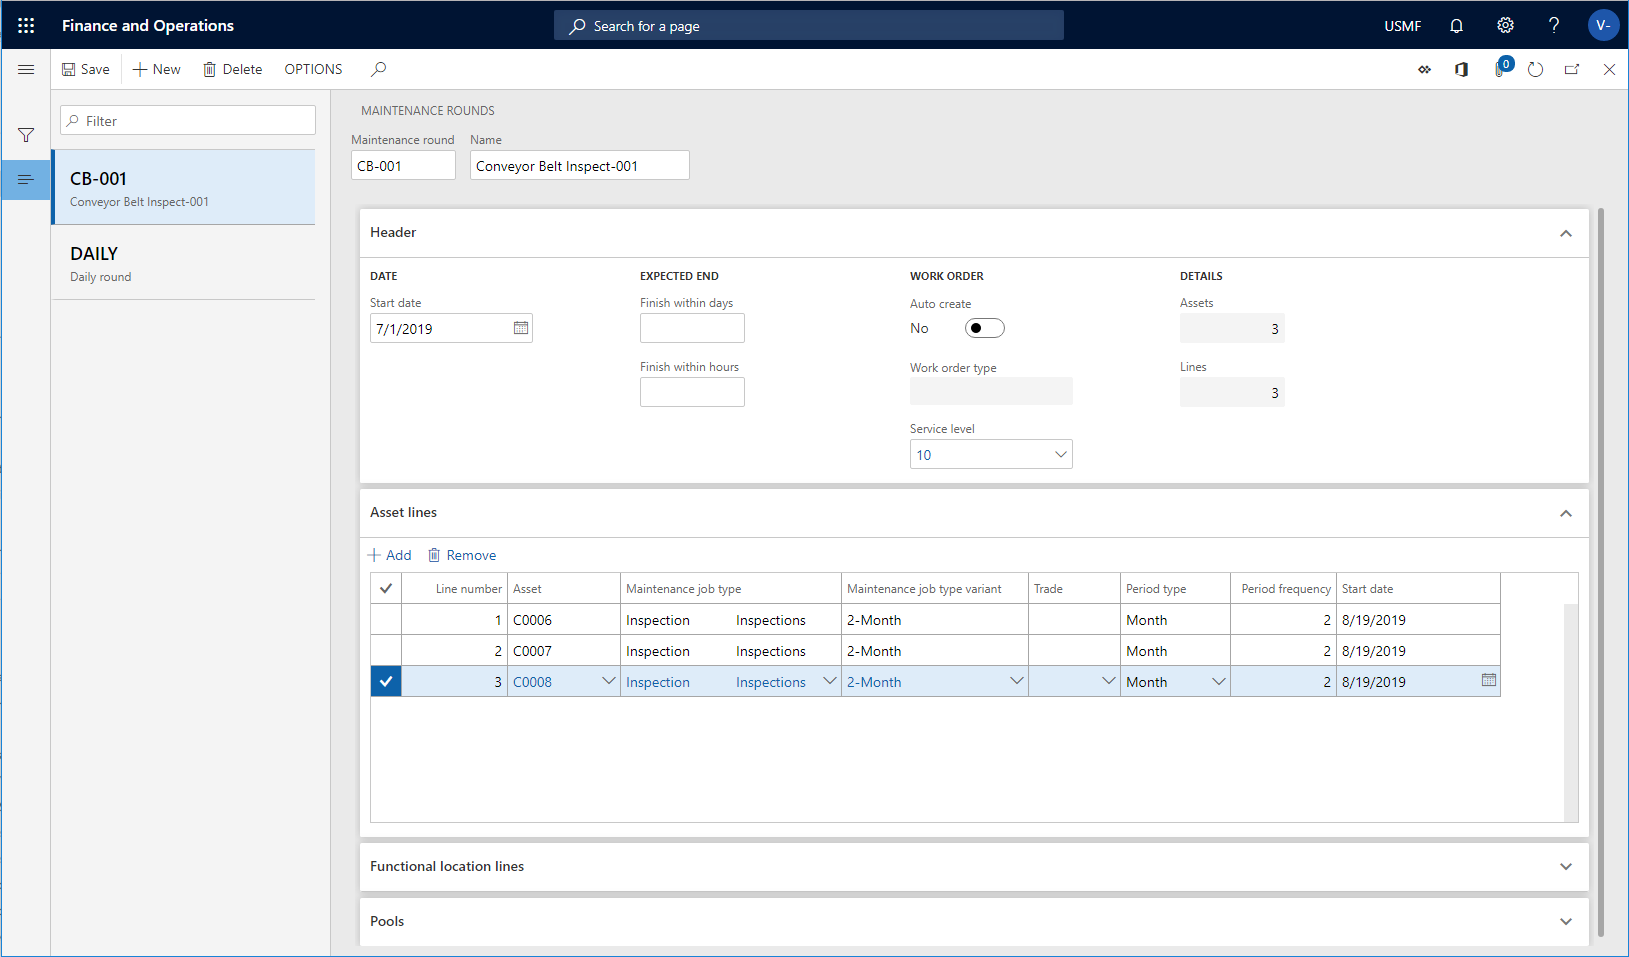
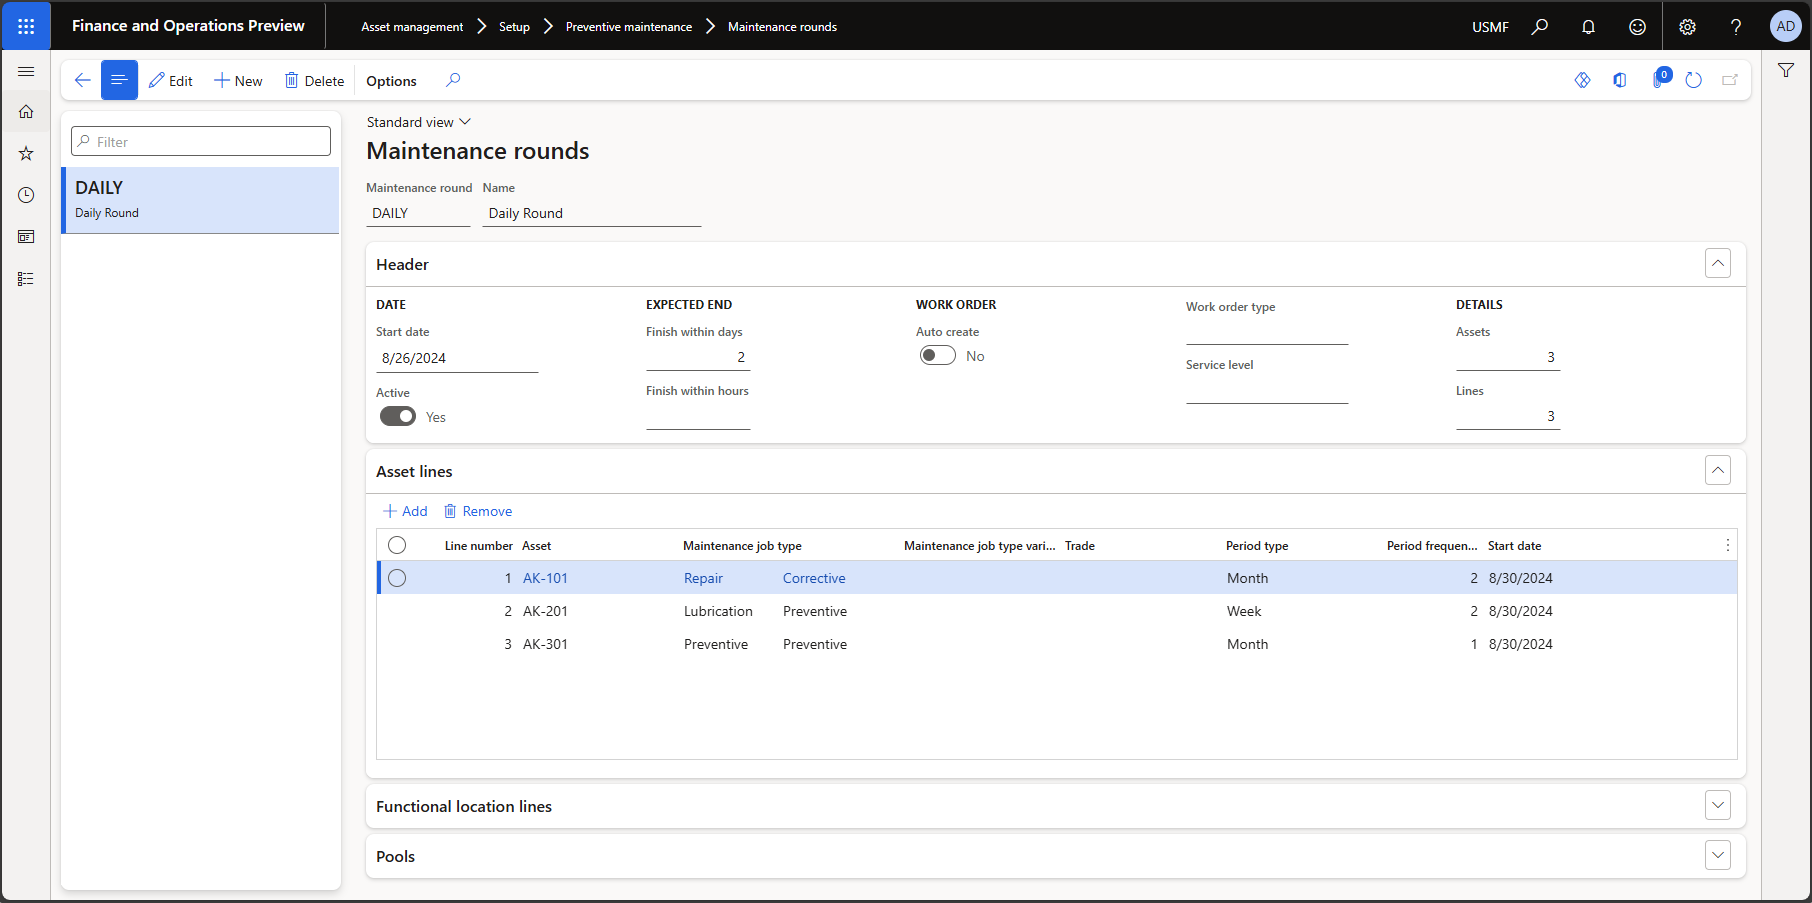
review

diff --git a/articles/supply-chain/asset-management/preventive-and-reactive-maintenance/maintenance-rounds.md b/articles/supply-chain/asset-management/preventive-and-reactive-maintenance/maintenance-rounds.md
@@ -4,105 +4,95 @@ description: Learn about maintenance rounds in Asset Management, including outli
 author: johanhoffmann
 ms.author: johanho
 ms.topic: article
-ms.date: 08/27/2019
-ms.custom: 
 ms.reviewer: kamaybac
-audience: Application User
-ms.search.region: Global
-ms.search.validFrom: 2019-08-31
 ms.search.form: EntAssetRoundTable 
-ms.dyn365.ops.version: 10.0.5
+ms.topic: how-to
+ms.date: 08/28/2024
+ms.custom: 
+  - bap-template
 ---
 
 # Maintenance rounds
 
 [!include [banner](../../includes/banner.md)]
 
-In **Asset Management**, you can create maintenance rounds for various assets, on which you need to carry out a similar task at regular intervals. For example, lubrication jobs or safety inspection jobs that need to be carried out on a number of machines within the same intervals. First step is to create a maintenance round, including assets that require the same form of maintenance job. Next, you schedule the maintenance rounds. When you have completed the maintenance rounds schedule, you can see all the job records relating to the round in the **All maintenance schedule** and **Open maintenance schedule lines**.
+In Asset Management, you can create maintenance rounds for various assets, on which you need to carry out a similar task at regular intervals. For example, lubrication jobs or safety inspection jobs that need to be carried out on several machines within the same intervals. First step is to create a maintenance round, including assets that require the same form of maintenance job. Next, you schedule the maintenance rounds. When you have completed the maintenance rounds schedule, you can see all the job records relating to the round in the **All maintenance schedule** and **Open maintenance schedule lines**.
 
->[!NOTE]
->Maintenance rounds can also be set up on functional locations to be completed on the assets installed on the functional location at the time of creation of the round-based work order. Refer to [Create functional locations](../functional-locations/create-functional-locations.md) for more information on the setup of maintenance rounds on functional locations.
+> [!NOTE]
+> Maintenance rounds can also be set up on functional locations to be completed on the assets installed on the functional location at the time of creation of the round-based work order. For more information on the setup of maintenance rounds on functional locations, see [Create functional locations](../functional-locations/create-functional-locations.md).
 
 ## Set up a maintenance round
 
-1. Click **Asset management** > **Setup** > **Preventive maintenance** > **Maintenance rounds**.
+1. Go to **Asset management** \> **Setup** \> **Preventive maintenance** \> **Maintenance rounds**.
+1. Select **New** to create a new maintenance round.
+1. Make the following settings in the heading of the new record:
+    - **Maintenance round** – Enter a unique ID for the new record.
+    - **Name** – Enter a name for the maintenance round.
 
-1. Click **New** to create a new maintenance round.
+1. Make the following settings on the **Header** FastTab:
+    - **Start date** – Select a start date for the round.
+    - **Finish within days** – Enter the number of days the job should take to complete. The expected end date is calculated relative to the start date, which is calculated when maintenance schedule lines are created. For example, you can enter *7* in this field to indicate that the related job should be completed within a week of the start date.
+    - **Finish within hours** – Enter the number of hours the job should take to complete.
+    - **Auto create** – Set to *Yes* if work orders should automatically be created from maintenance schedule lines that are created from this maintenance round.
+    - **Work order type** – Select the work order type to be used on work orders created from this maintenance round.
+    - **Service level** – Select the work order service level to be used on work orders created from this maintenance round.
+    - **Active** – Set to *Yes* to activate the maintenance round. If you set this to *No*, no schedule posts will be created in the maintenance schedule when you run a schedule maintenance plan job.
+    - **Assets** – This read-only value shows the number of assets related to the maintenance round.
+    - **Lines** – This read-only value shows the number of lines related to the maintenance round.
 
-1. Insert and ID in the **Maintenance round** field, and a name for the maintenance round in the **Name** field.
+1. On the **Asset lines** FastTab, select **Add** to add an asset to the maintenance round. Make the following settings for the new line:
+    - **Line number** – A line number is automatically inserted in this field to indicate the sequence of the assets in the maintenance round.
+    - **Asset** – Select the asset to be included in the maintenance round.
+    - **Maintenance job type** – Select the maintenance job type for the asset.
+    - **Maintenance job type variant** – If necessary, select a maintenance job type variant related to the maintenance job type.
+    - **Trade** – If necessary, select a trade related to the maintenance job type.
+    - **Period type** – Select the recurrence (such as *Day*, *Week*, or *Month*) for the maintenance round.
+    - **Period frequency** – Enter the number of recurrences for the maintenance round. For example, if you have selected *Day* in the **Period type** field, and you enter the number *7* in this field, new maintenance round lines are created during preventive maintenance scheduling once a week.
+    - **Start date** – Select a start date for the asset to be included in the maintenance round. This date might differ from the start date set on the maintenance round.
 
-1. Select a start date for the round in the **Start date** field.
+1. Repeat the previous step to add more assets to the maintenance round.
+1. On the **Functional location lines** FastTab, select **Add** to add a functional location to the maintenance round. Refer to the descriptions of the related fields provided previously. The same fields are available as for creating an asset line, but you can also select **Manufacturer** and **Model** for a functional location, if necessary. If you only select a functional location on a line, but make no selections in **Asset type**, **Manufacturer**, **Model**, **Maintenance job type**, **Maintenance job type variant**, and **Trade**, all assets related to that functional location at the time of maintenance scheduling will be included in the maintenance round.
+1. On the **Pools** FastTab, select **Add** to select a work order pool to be included in the maintenance round. Several work order pools can be connected to one maintenance round.
+1. On the Action Pane, select **Save**.
 
-1. In the **Finish within days** and **Finish within hours** fields, you can insert expected end date in days or hours. The expected end date is calculated relative to the start date, which is calculated when maintenance schedule lines are created. For example, you can insert "7" in the **Finish within days** field to indicate that the related job should be completed within a week from the start date.
 
-1.  Select "Yes" in the **Active** toggle button to activate the maintenance round.
+The following illustration shows an example of a maintenance round containing three assets.
 
-    >[!NOTE]
-    >If you deactivate a maintenance round, no schedule posts will be created in the maintenance schedule when you run a schedule maintenance plan job.
-
-1. Select "Yes" on the **Auto create** toggle button if work orders should automatically be created from maintenance schedule lines that are created from this maintenance round.
-
-1. In the **Work order type** field, select the work order type to be used on work orders created from this maintenance round.
-
-1. In the **Service level** field, select the work order service level to be used on work orders created from this maintenance round.
-
-1. On the **Asset lines** FastTab, click **Add** to add an asset to the maintenance round.
-
-1. A line number is automatically inserted in the **Line number** field to indicate the sequence of the assets in maintenance round.
-
-1. Select the asset in the **Asset** field.
-
-1. Select the maintenance job type for the asset in the **Maintenance job type** field.
-
-1. If required, select **Maintenance job typ variant** and **Trade** related to the maintenance job type.
-
-1. Select the recurrence (day, week, etc.) in the **Period type** field.
-
-1. In the **Period frequency** field, insert the number of recurrences for the maintenance round. Example: If you have selected "Day" in the **Period type** field, and you insert the number "7" in this field, new maintenance round lines are created during preventive maintenance scheduling once a week.
-
-1. Select a start date for the asset to be included in the maintenance round in the **Start date** field. This date may differ from the start date set on the maintenance round.
-
-1. Repeat steps 9-16 to add more assets to the maintenance round.
-
-1. On the **Functional location lines** FastTab, click **Add** to add a functional location to the maintenance round. Refer to the description of the related fields above. The same fields are available as for creating an asset line, but you can also select **Manufacturer** and **Model** for a functional location, if required. If you only select a functional location on a line, but make no selections in **Asset type**, **Manufacturer**, **Model**, **Maintenance job type**, **Maintenance job type variant** and **Trade**, all assets related to that functional location at the time of maintenance scheduling will be included in the maintenance round.
-
-1. On the **Pools** FastTab, click **Add** to select a work order pool to be included in the maintenance round. Several work order pools can be connected to one maintenance round.
-
-21. Save your setup.
-
->[!NOTE]
->The **Assets** and **Lines** fields located in the **Details** group on the **Header** FastTab show the total number of assets and lines related to the selected maintenance round.
-
-The illustration below shows and example of a maintenance round containing three assets.
-
-![Figure 1.](media/13-preventive-maintenance.png)
+:::image type="content" source="media/13-preventive-maintenance.png" alt-text="Example of a maintenance round containing three assets" lightbox="media/13-preventive-maintenance.png":::
 
 ## Schedule maintenance rounds
 
 When you've set up a maintenance round, you run a schedule job to schedule all the jobs related to the maintenance round.
 
-1. Click **Asset management** > **Periodic** > **Preventive maintenance** > **Schedule maintenance rounds**, or **Asset management** > **Maintenance schedule** > **All maintenance schedule** or **Open maintenance schedule lines** or **Open maintenance schedule pools** > select maintenance schedule line in the list > **Maintenance rounds** button.
+1. Do one of the following steps:
+    - Go to **Asset management** \> **Periodic** \> **Preventive maintenance** \> **Schedule maintenance rounds**.
 
-1. In the **Period** field, select the period type to be used for the scheduling job.
+    - Go to **Asset management** \> **Maintenance schedule** \> **All maintenance schedule**. Select a maintenance schedule line in the grid. On the Action Pane, open the **Maintenance schedule** tab and, from the **Schedule** group, select **Maintenance rounds**.
 
-1. In the **Period frequency** field, insert the number of periods to be included in the scheduling job. The start of the scheduling is the current date.
+    - Go to **Asset management** \> **Maintenance schedule** \> **Open maintenance schedule lines**. Select a maintenance schedule line in the grid. On the Action Pane, open the **Maintenance schedule** tab and, from the **Schedule** group, select **Maintenance rounds**.
 
-1. Select "Yes" on the **Auto create** toggle button if a work order should automatically be created on the basis of a maintenance round.
+    - Go to **Asset management** \> **Maintenance schedule** \> **Open maintenance schedule pools**. Select a maintenance schedule line in the grid. On the Action Pane, open the **Maintenance schedule** tab and, from the **Schedule** group, select **Maintenance rounds**.
 
->[!NOTE]
->If this toggle button is set to "Yes", and the **Auto create** toggle button is also set to "Yes" on the maintenance round in **Maintenance rounds** form, work orders are created based on the maintenance round lines, and maintenance schedule lines with status "Work order created" are also created. If only one of the **Auto create** toggle buttons is set to "Yes", in this drop-down or in **Maintenance rounds**, only maintenance schedule lines are created with status "Created". In that case, no work orders are created.
+1. The **Schedule maintenance rounds** dialog opens.
+    :::image type="content" source="media/14-preventive-maintenance.png" alt-text="Set up for a schedule job in the Schedule maintenance rounds dialog." lightbox="media/14-preventive-maintenance.png":::
 
-1. If required, you can select specific rounds or another start date for the schedule job. Click **Filter**, and add the rounds to be included.
+    Make the following settings:
+    - **Period** – Select the period type to use for the scheduling job.
+    - **Period frequency** – Enter the number of periods to be included in the scheduling job. The start of the scheduling is the current date.
+    - **Auto create** – Set to *Yes* if a work order should automatically be created based on a maintenance round.
 
-1. Click **OK**.
+    > [!NOTE]
+    > If **Auto create** is set to *Yes* on the **Schedule maintenance rounds** dialog, and **Auto create** is also set to *Yes* on the **Maintenance rounds** page, the system creates work orders based on the maintenance round lines and also creates maintenance schedule lines with status *Work order created*. If only one of the **Auto create** toggle buttons is set to *Yes*, the system only creates maintenance schedule lines with status *Created*. In that case, no work orders are created.
 
-1. You are now able to see the maintenance rounds jobs in **Asset management** > **Maintenance schedule** > **All maintenance schedule** or **Open maintenance schedule lines**. If the scheduled rounds are connected to a work order pool, you also see maintenance schedule lines in **Open maintenance schedule pools**. Maintenance schedule lines created from a round have the reference type "Maintenance rounds".
+1. If necessary, you can select specific rounds or another start date for the schedule job. To do so, select **Filter** and add the rounds to be included.
 
-The two illustrations below show a schedule job in the **Schedule maintenance rounds** dialog, and the maintenance schedule lines created in **All maintenance schedule** based on that schedule job.
+1. Select **OK**.
 
-![Figure 2.](media/14-preventive-maintenance.png)
+1. You're now able to see the maintenance rounds jobs in **Asset management** \> **Maintenance schedule** \> **All maintenance schedule** or **Open maintenance schedule lines**. If the scheduled rounds are connected to a work order pool, you also see maintenance schedule lines in **Open maintenance schedule pools**. Maintenance schedule lines created from a round have the reference type *Maintenance rounds*.
 
-![Figure 3.](media/15-preventive-maintenance.png)
+The following  illustration shows the maintenance schedule lines listed on the **All maintenance schedule** page.
+
+:::image type="content" source="media/15-preventive-maintenance.png" alt-text="Maintenance schedule lines on the All maintenance schedule page." lightbox="media/15-preventive-maintenance.png":::
 
 - When work orders are manually created on assets that are covered by a vendor warranty, a dialog box is shown to make the user aware of the warranty. The creation of the work order can then be canceled. The check for a warranty relation is omitted for work orders that are automatically created.  
 - You can set up a batch job on the **Run in the background** FastTab to schedule rounds at regular intervals.  
